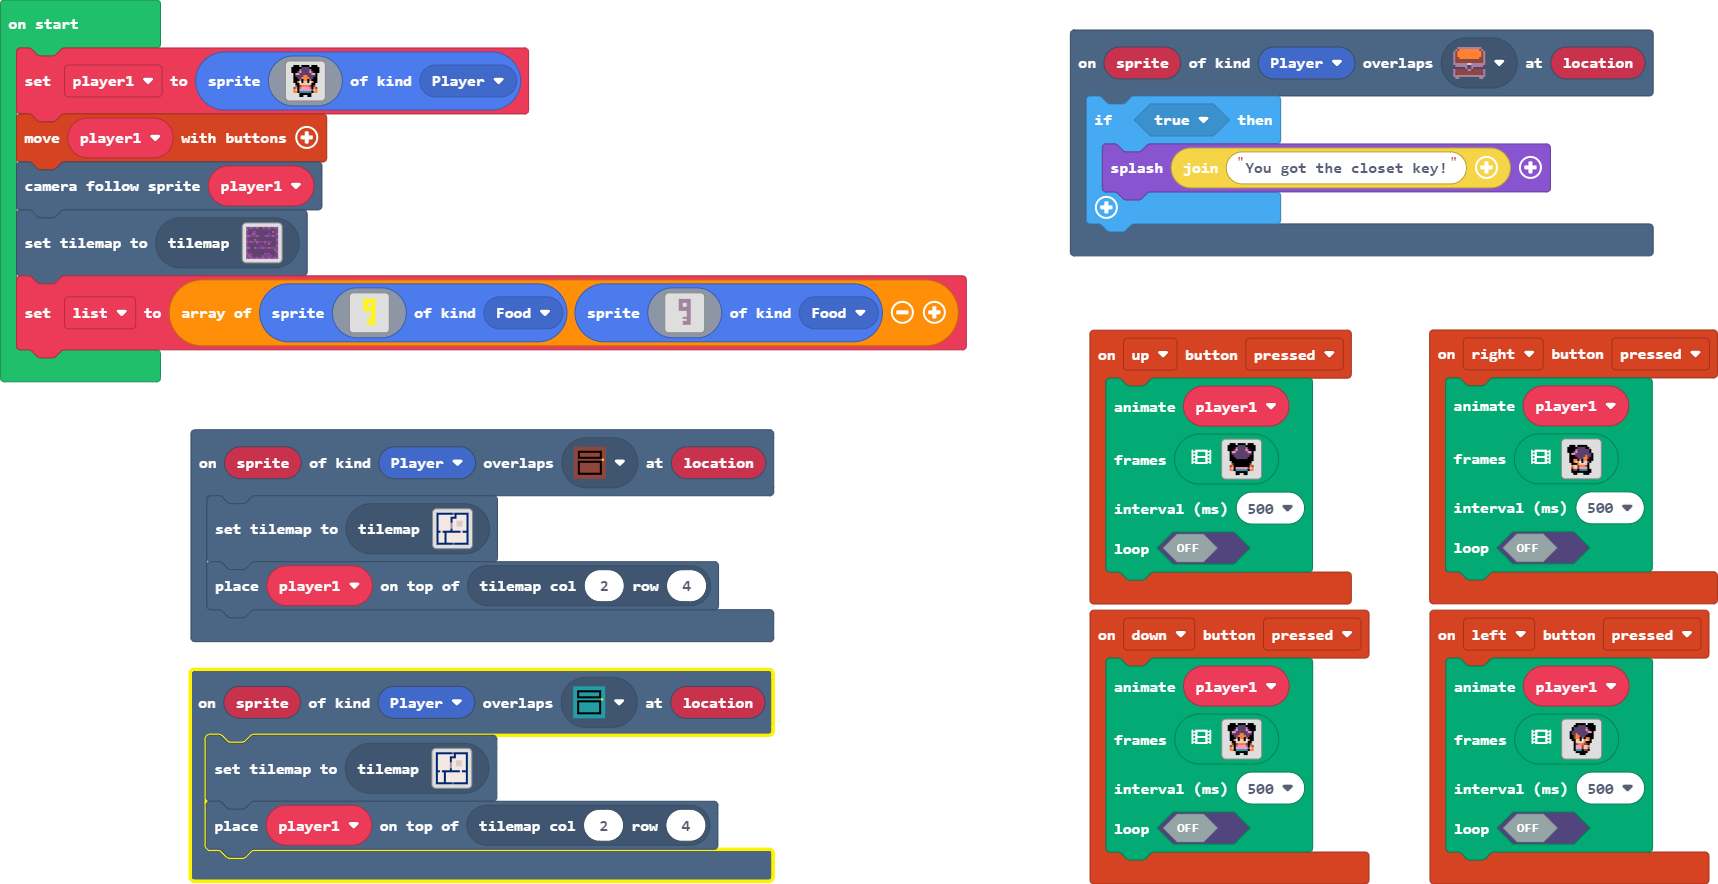
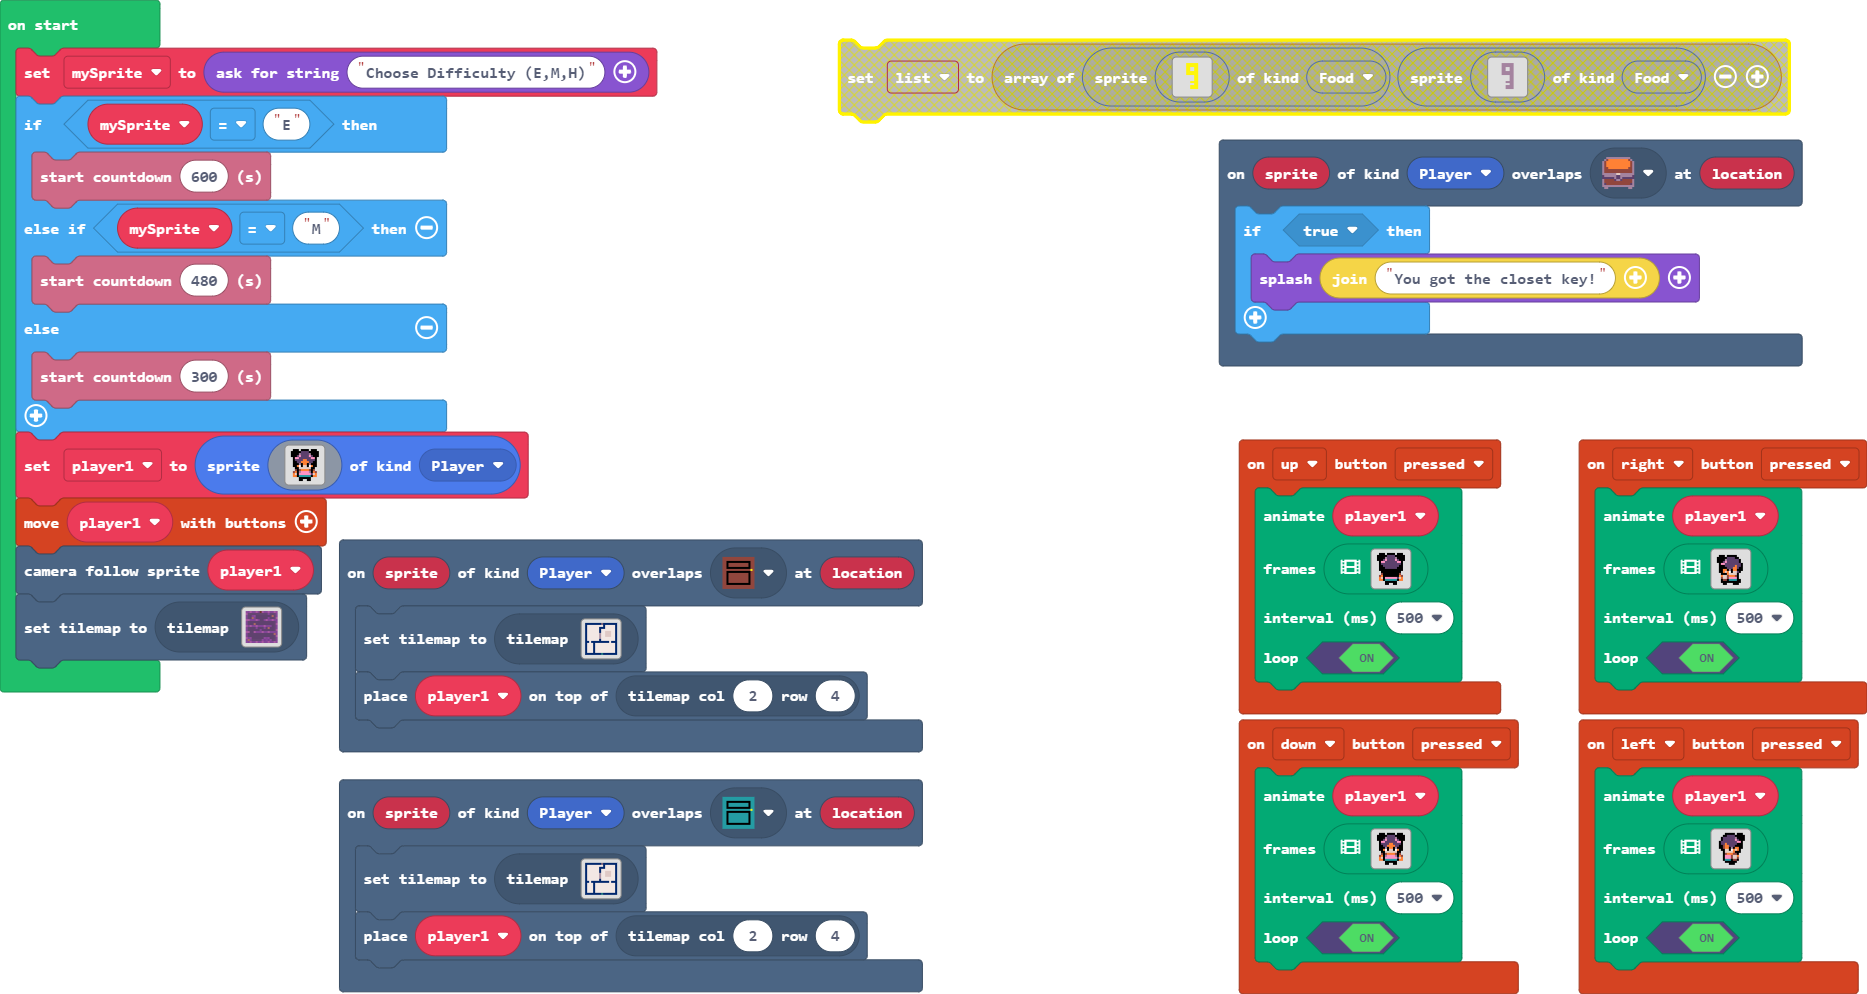
Added difficulty

diff --git a/main.ts b/main.ts
@@ -54,7 +54,7 @@ controller.up.onEvent(ControllerButtonEvent.Pressed, function () {
         . . . . . . . . f f f . . . 
         `],
     500,
-    false
+    true
     )
 })
 scene.onOverlapTile(SpriteKind.Player, assets.tile`myTile`, function (sprite, location) {
@@ -117,7 +117,7 @@ controller.left.onEvent(ControllerButtonEvent.Pressed, function () {
         . . . f f f . . . f f . . . 
         `],
     500,
-    false
+    true
     )
 })
 scene.onOverlapTile(SpriteKind.Player, sprites.dungeon.chestClosed, function (sprite, location) {
@@ -181,7 +181,7 @@ controller.right.onEvent(ControllerButtonEvent.Pressed, function () {
         . . . . . f f f . . . . . . 
         `],
     500,
-    false
+    true
     )
 })
 controller.down.onEvent(ControllerButtonEvent.Pressed, function () {
@@ -240,7 +240,7 @@ controller.down.onEvent(ControllerButtonEvent.Pressed, function () {
         . . . . . . . . f f f . . . 
         `],
     500,
-    false
+    true
     )
 })
 scene.onOverlapTile(SpriteKind.Player, assets.tile`myTile2`, function (sprite, location) {
@@ -248,6 +248,14 @@ scene.onOverlapTile(SpriteKind.Player, assets.tile`myTile2`, function (sprite, l
     tiles.placeOnTile(player1, tiles.getTileLocation(2, 4))
 })
 let player1: Sprite = null
+let mySprite = game.askForString("Choose Difficulty (E,M,H)")
+if (mySprite == "E") {
+    info.startCountdown(600)
+} else if (mySprite == "M") {
+    info.startCountdown(480)
+} else {
+    info.startCountdown(300)
+}
 player1 = sprites.create(img`
     . f f f . f f f f . f f f . 
     f f f f f c c c c f f f f f 
@@ -269,38 +277,3 @@ player1 = sprites.create(img`
 controller.moveSprite(player1)
 scene.cameraFollowSprite(player1)
 tiles.setCurrentTilemap(tilemap`level1`)
-let list = [sprites.create(img`
-    . . . . . . . . . . . . . . . . 
-    . . . . . 5 5 5 5 5 5 . . . . . 
-    . . . . . 5 5 5 5 5 5 . . . . . 
-    . . . . . 5 5 . . 5 5 . . . . . 
-    . . . . . 5 5 . . 5 5 . . . . . 
-    . . . . . 5 5 5 5 5 5 . . . . . 
-    . . . . . 5 5 5 5 5 5 . . . . . 
-    . . . . . . . . . 5 5 . . . . . 
-    . . . . . . . . . 5 5 . . . . . 
-    . . . . . . . . . 5 5 . . . . . 
-    . . . . . . . 5 5 5 5 . . . . . 
-    . . . . . . . . . 5 5 . . . . . 
-    . . . . . . . 5 5 5 5 . . . . . 
-    . . . . . . . 5 5 5 5 . . . . . 
-    . . . . . . . . . . . . . . . . 
-    . . . . . . . . . . . . . . . . 
-    `, SpriteKind.Food), sprites.create(img`
-    . . . . . . . . . . . . . . . . 
-    . . . . . b b b b b b . . . . . 
-    . . . . . b b b b b b . . . . . 
-    . . . . . b b . . b b . . . . . 
-    . . . . . b b . . b b . . . . . 
-    . . . . . b b b b b b . . . . . 
-    . . . . . b b b b b b . . . . . 
-    . . . . . . . . . b b . . . . . 
-    . . . . . . . . . b b . . . . . 
-    . . . . . . . . . b b . . . . . 
-    . . . . . . . b b b b . . . . . 
-    . . . . . . . . . b b . . . . . 
-    . . . . . . . b b b b . . . . . 
-    . . . . . . . b b b b . . . . . 
-    . . . . . . . . . . . . . . . . 
-    . . . . . . . . . . . . . . . . 
-    `, SpriteKind.Food)]
